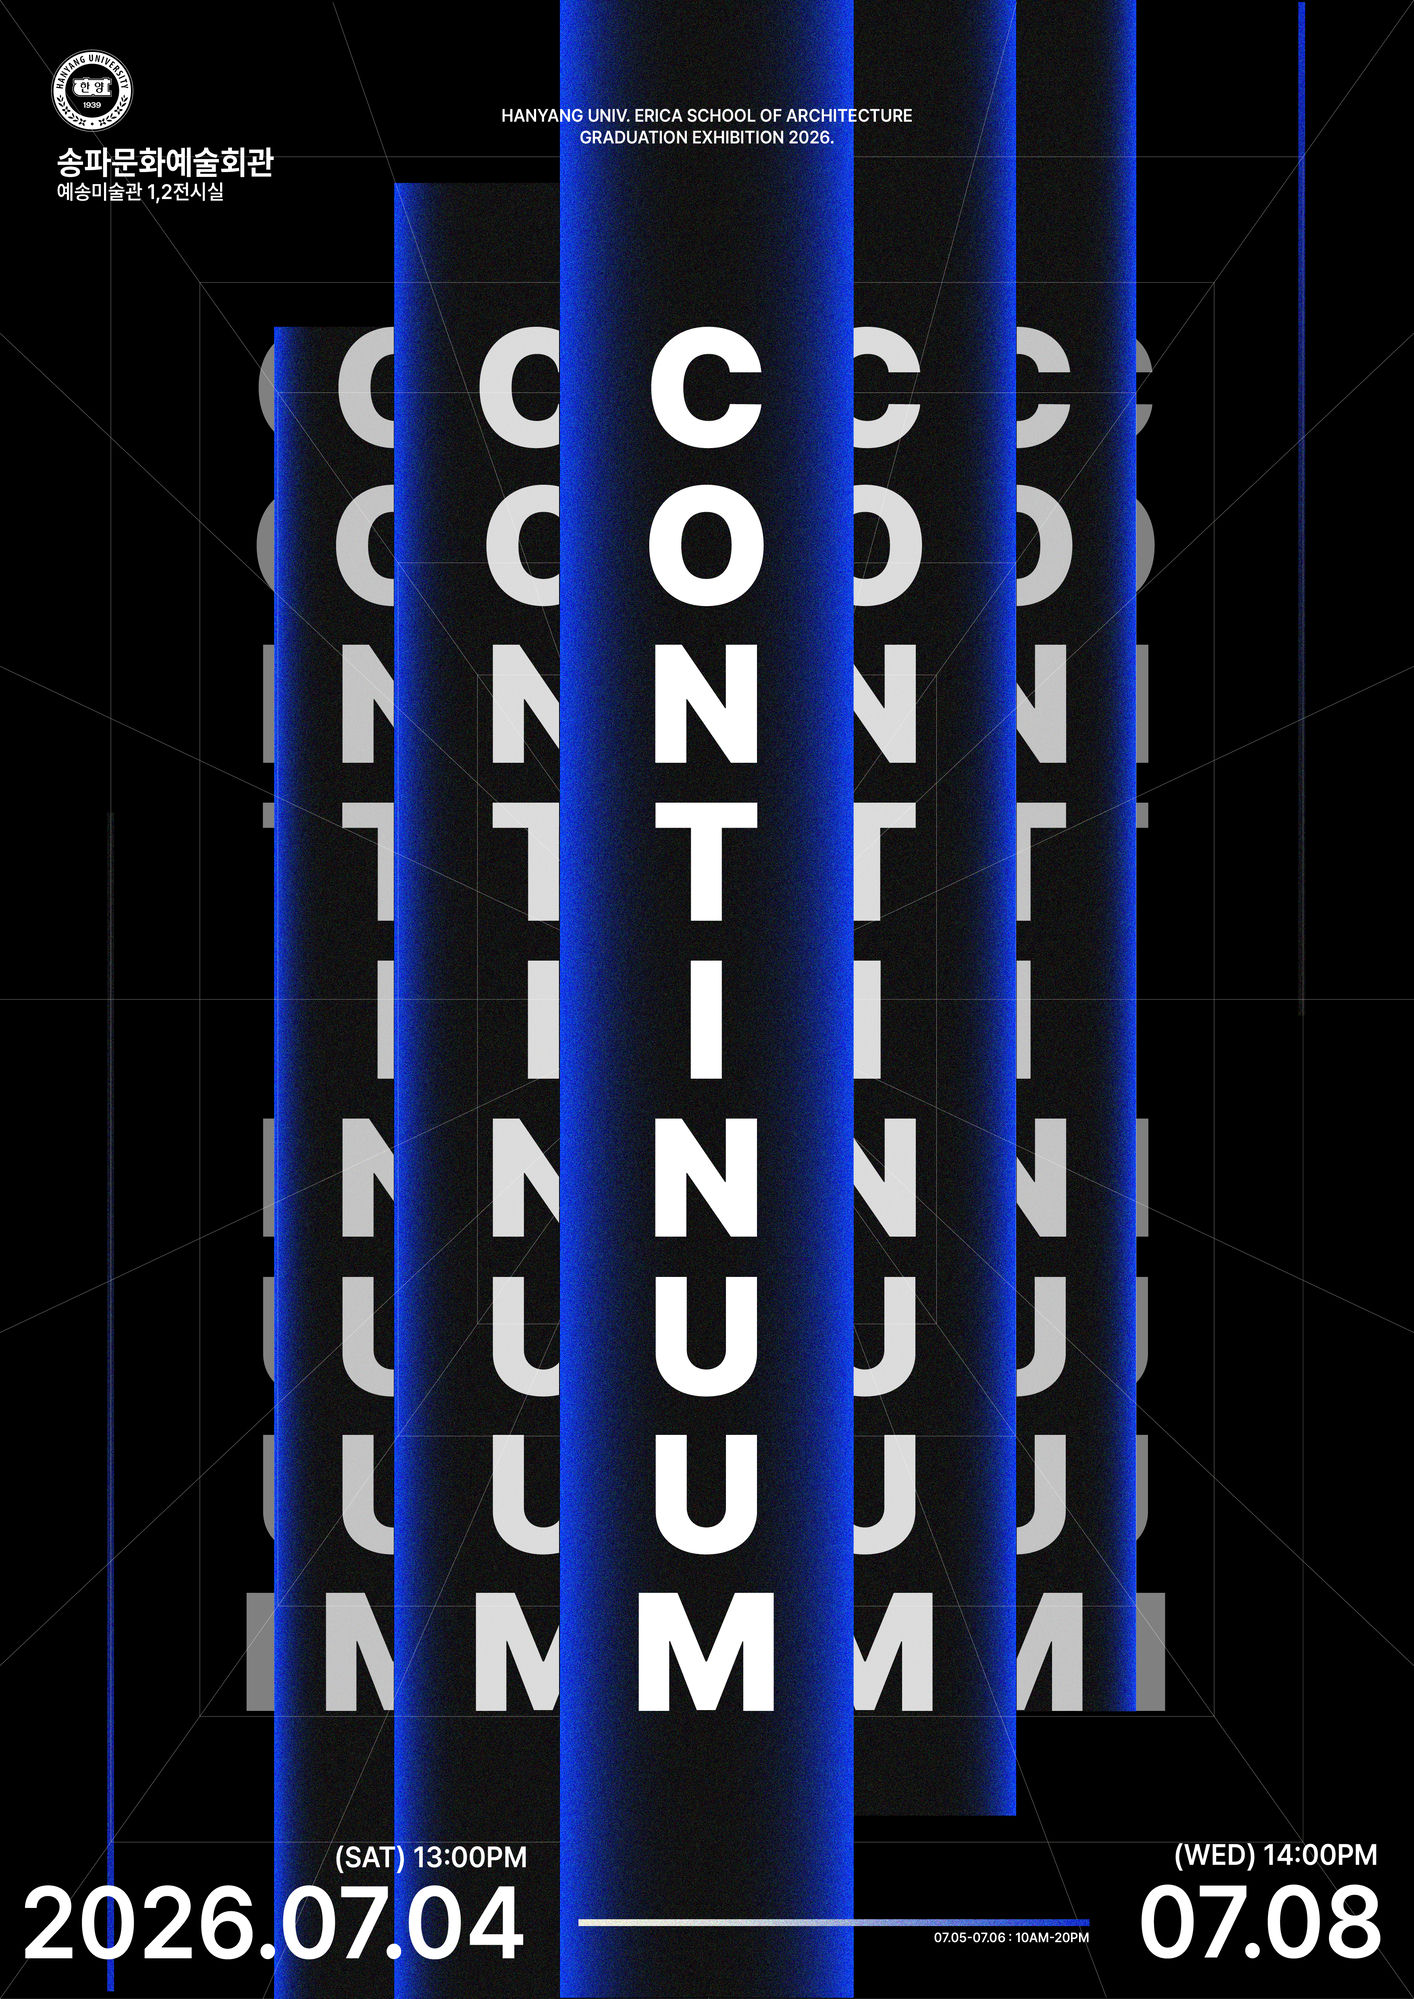
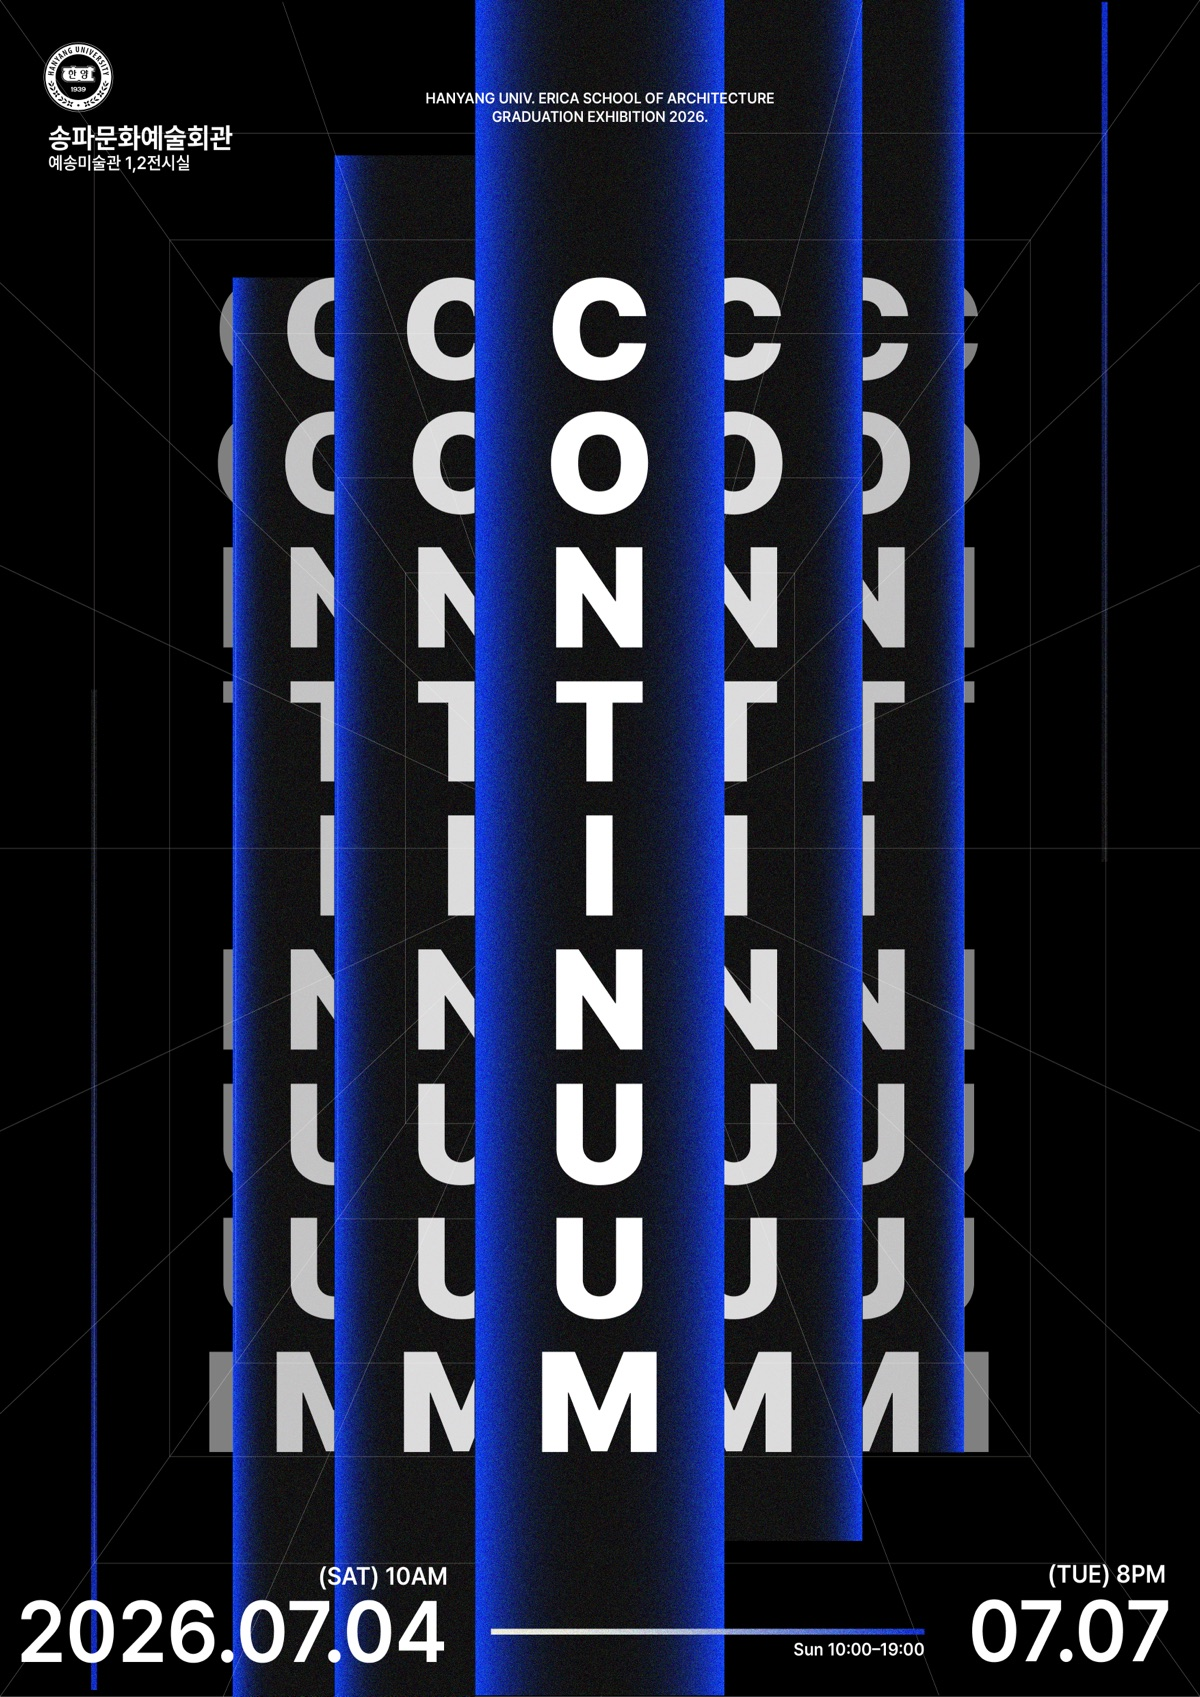
feat: 최종 포스터로 OG 교체 + 일정 07.07 환원
- OG 이미지 최종 포스터(1200x1697 압축)로 교체
- 일정 07.04(토) 10AM ~ 07.07(화) 8PM, 일요일 10-19 단축 (최종 포스터 기준)
- 메타데이터 날짜 07.07

diff --git a/app/layout.tsx b/app/layout.tsx
@@ -22,19 +22,19 @@ const displayEn = Inter({
 export const metadata: Metadata = {
   title: "CONTINUUM — 2026 한양대학교 ERICA 건축학부 졸업전시",
   description:
-    "2026 한양대학교 ERICA 건축학부 졸업전시 CONTINUUM에 초대합니다. 2026.07.04–07.08, 송파예술문화회관 예송미술관 제1·2관.",
+    "2026 한양대학교 ERICA 건축학부 졸업전시 CONTINUUM에 초대합니다. 2026.07.04–07.07, 송파예술문화회관 예송미술관 제1·2관.",
   openGraph: {
     title: "CONTINUUM — 2026 한양대 ERICA 건축학부 졸업전시",
     description:
-      "2026.07.04–07.08 · 송파예술문화회관 예송미술관 제1·2관. 끊임없이 이어져 온 흐름 위의 한 단면.",
+      "2026.07.04–07.07 · 송파예술문화회관 예송미술관 제1·2관. 끊임없이 이어져 온 흐름 위의 한 단면.",
     locale: "ko_KR",
     type: "website",
-    images: [{ url: "/og-image.jpg", width: 1414, height: 1999, alt: "CONTINUUM 2026 한양대 ERICA 건축학부 졸업전시" }],
+    images: [{ url: "/og-image.jpg", width: 1200, height: 1697, alt: "CONTINUUM 2026 한양대 ERICA 건축학부 졸업전시" }],
   },
   twitter: {
     card: "summary_large_image",
     title: "CONTINUUM — 2026 한양대 ERICA 건축학부 졸업전시",
-    description: "2026.07.04–07.08 · 송파예술문화회관 예송미술관 제1·2관.",
+    description: "2026.07.04–07.07 · 송파예술문화회관 예송미술관 제1·2관.",
     images: ["/og-image.jpg"],
   },
 };

diff --git a/lib/data.ts b/lib/data.ts
@@ -7,13 +7,13 @@ export const exhibition = {
   title: "CONTINUUM",
   host: "2026 한양대학교 ERICA 건축학부 졸업전시",
   hostEn: "2026 HANYANG UNIV. ERICA SCHOOL OF ARCHITECTURE GRADUATION EXHIBITION",
-  period: "2026.07.04 — 07.08",
+  period: "2026.07.04 — 07.07",
   periodFrom: "2026.07.04",
-  periodTo: "07.08",
-  // 포스터 기준: 첫날 13:00 개막, 중간 10–20, 마지막날 14:00 종료 (일요일 단축 없음)
+  periodTo: "07.07",
+  // 최종 포스터 기준: 07.04(토) 10AM ~ 07.07(화) 8PM, 일요일(07.05) 10–19
   schedule: [
     { day: "07.04 – 07.07", time: "10AM – 20PM" },
-    { day: "07.08 (수)", time: "~ 14:00 종료" },
+    { day: "07.05 (일)", time: "10AM – 19PM" },
   ],
   venue: "송파예술문화회관 예송미술관 제1·2관",
   venueSub: "송파구민회관 1층",